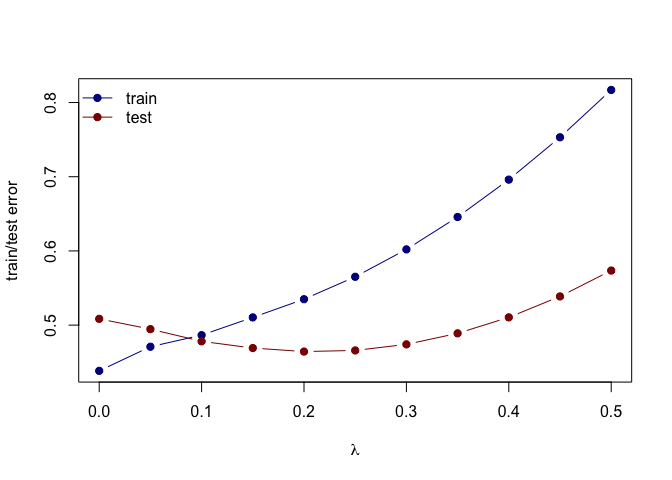
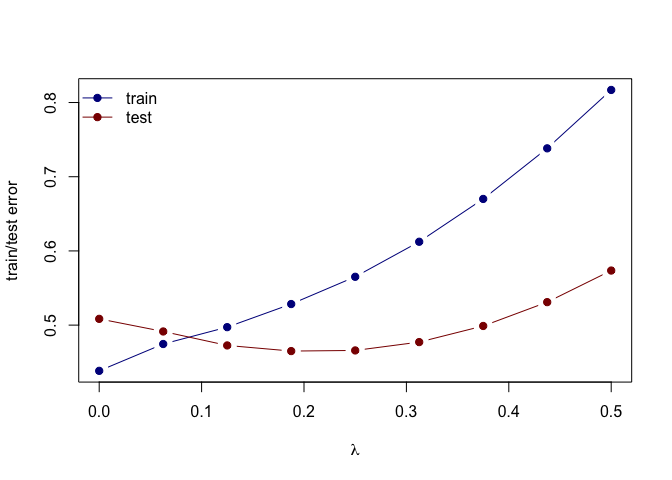
hw3 updated

diff --git a/hw3/hw3.md b/hw3/hw3.md
@@ -1,7 +1,7 @@
 Homework 3
 ================
 Painter, Ty
-Thu Feb 25 08:23:34 2021
+Thu Feb 25 09:12:05 2021
 
 # Using the RMarkdown/knitr/github mechanism, implement the following tasks:
 
@@ -164,32 +164,29 @@ library('glmnet')
 form <- lcavol ~ 0 + lweight + age + lbph + lcp + pgg45 + lpsa + svi + gleason # what is this?
 x_inp <- model.matrix(form, data=prostate_train) # math to form this matrix?
 y_out <- prostate_train$lcavol
-ridge_reg <- glmnet(x=x_inp, y=y_out, lambda=seq(0.5, 0, -0.05))
+ridge_reg <- glmnet(x=x_inp, y=y_out, lambda=seq(0.5, 0, length=9))
 print(ridge_reg$beta) # beta over sequence of lambda
 ```
 
-    ## 8 x 11 sparse Matrix of class "dgCMatrix"
-
-    ##    [[ suppressing 11 column names 's0', 's1', 's2' ... ]]
-
-    ##                                                                              
-    ## lweight .         .         .         .         .         .         .        
-    ## age     .         .         .         .         .         .         .        
-    ## lbph    .         .         .         .         .         .         .        
-    ## lcp     0.1473018 0.1714414 0.1955919 0.2197423 0.2438928 0.2680433 0.2921937
-    ## pgg45   .         .         .         .         .         .         .        
-    ## lpsa    0.2535992 0.2816134 0.3096214 0.3376294 0.3656374 0.3936454 0.4216534
-    ## svi     .         .         .         .         .         .         .        
-    ## gleason .         .         .         .         .         .         .        
-    ##                                                           
-    ## lweight .            .            .           -0.113959029
-    ## age     0.0006179005 0.005823836  0.010987417  0.020114429
-    ## lbph    .            .           -0.004060083 -0.056959719
-    ## lcp     0.3160341041 0.337951116  0.352226351  0.418442122
-    ## pgg45   .            .            .           -0.009110807
-    ## lpsa    0.4489636282 0.470877681  0.491246304  0.575583816
-    ## svi     .            .            0.026126960  0.035184640
-    ## gleason .            .            0.011159844  0.224210312
+    ## 8 x 9 sparse Matrix of class "dgCMatrix"
+    ##                s0        s1        s2        s3        s4        s5          s6
+    ## lweight .         .         .         .         .         .         .          
+    ## age     .         .         .         .         .         .         0.003222941
+    ## lbph    .         .         .         .         .         .         .          
+    ## lcp     0.1473018 0.1774814 0.2076694 0.2378575 0.2680456 0.2982337 0.326967382
+    ## pgg45   .         .         .         .         .         .         .          
+    ## lpsa    0.2535992 0.2886141 0.3236241 0.3586341 0.3936441 0.4286541 0.459932037
+    ## svi     .         .         .         .         .         .         .          
+    ## gleason .         .         .         .         .         .         .          
+    ##                  s7           s8
+    ## lweight .           -0.113830185
+    ## age     0.009626789  0.020117489
+    ## lbph    .           -0.056999080
+    ## lcp     0.350633927  0.418428323
+    ## pgg45   .           -0.009111341
+    ## lpsa    0.485226383  0.575597098
+    ## svi     0.017659982  0.035138413
+    ## gleason 0.004936519  0.224229463
 
 ``` r
 ## functions to compute testing/training error with glmnet
@@ -204,7 +201,7 @@ ridge_error <- function(data, fit, lambda, form, loss=L2_loss) {
 ridge_error(prostate_test, ridge_reg, lambda=.21, form=form) 
 ```
 
-    ## [1] 0.4641284
+    ## [1] 0.4641289
 
   - Create a figure that shows the training and test error associated
     with ridge regression as a function of lambda
@@ -249,8 +246,8 @@ plot(x=range(ridge_reg$lambda),
      xlab=expression(lambda),
      ylab='Coefficients')
 for(i in 1:nrow(ridge_reg$beta)) {
-  points(x=ridge_reg$lambda, y=ridge_reg$beta[i,], pch=19, col='#00000055')
-  lines(x=ridge_reg$lambda, y=ridge_reg$beta[i,], col='#00000055')
+  points(x=ridge_reg$lambda, y=ridge_reg$beta[i,], pch=19, col='blue')
+  lines(x=ridge_reg$lambda, y=ridge_reg$beta[i,], col='blue')
 }
 abline(h=0, lty=3, lwd=2)
 ```
